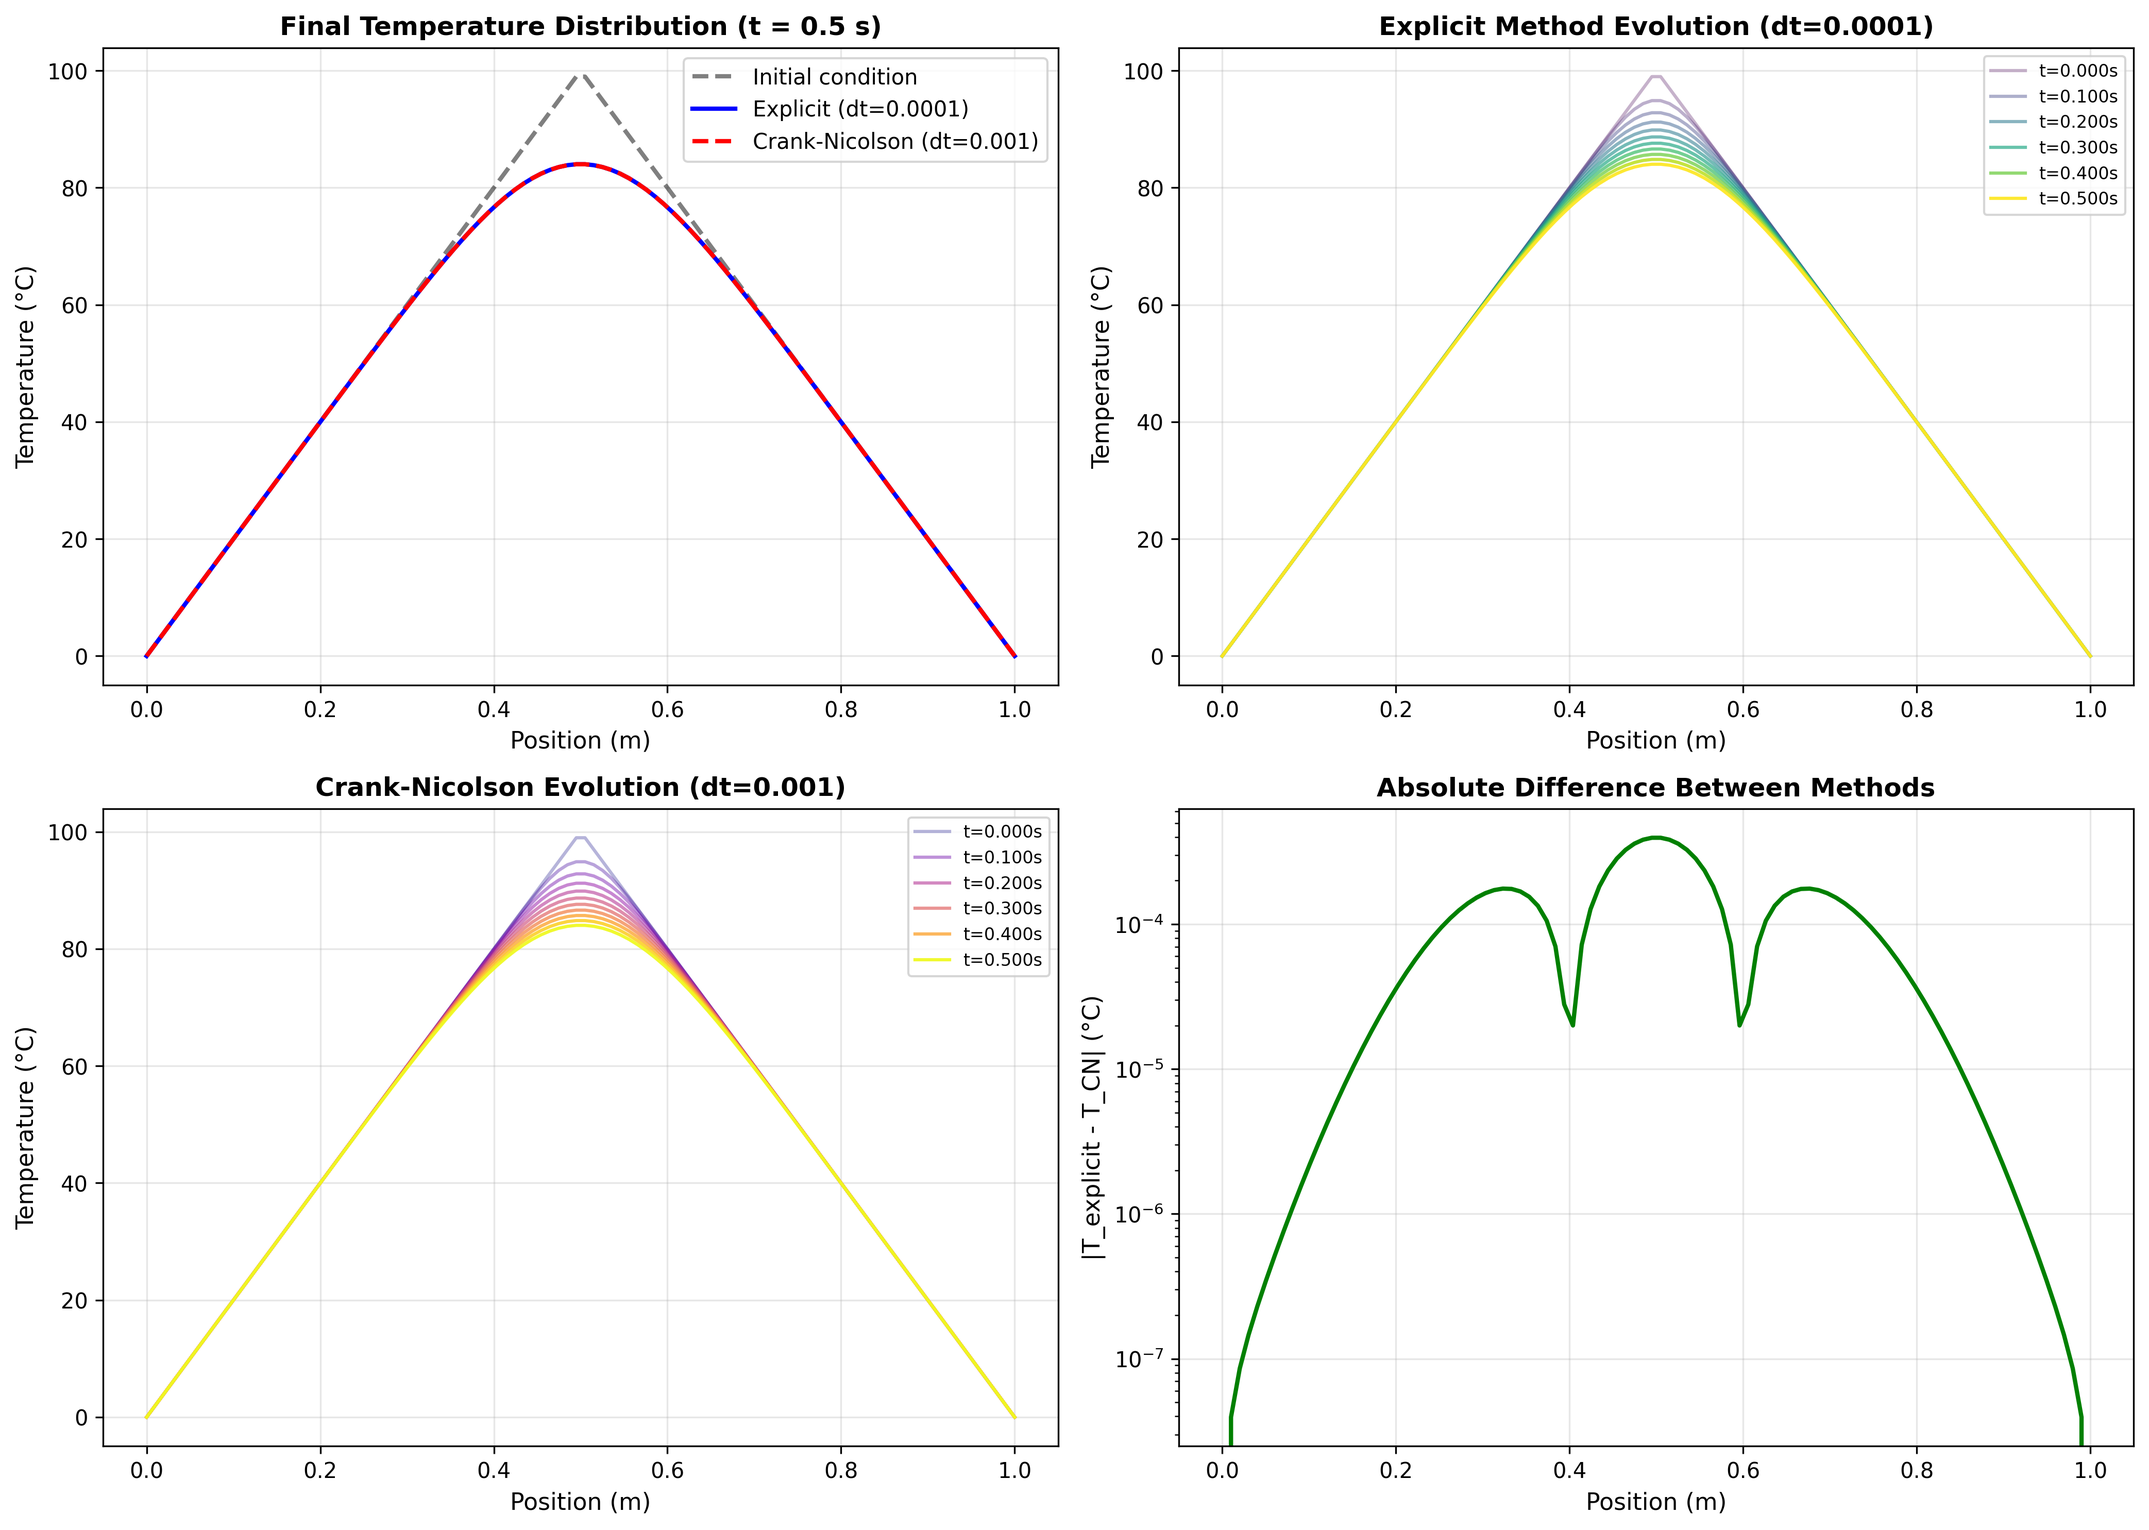
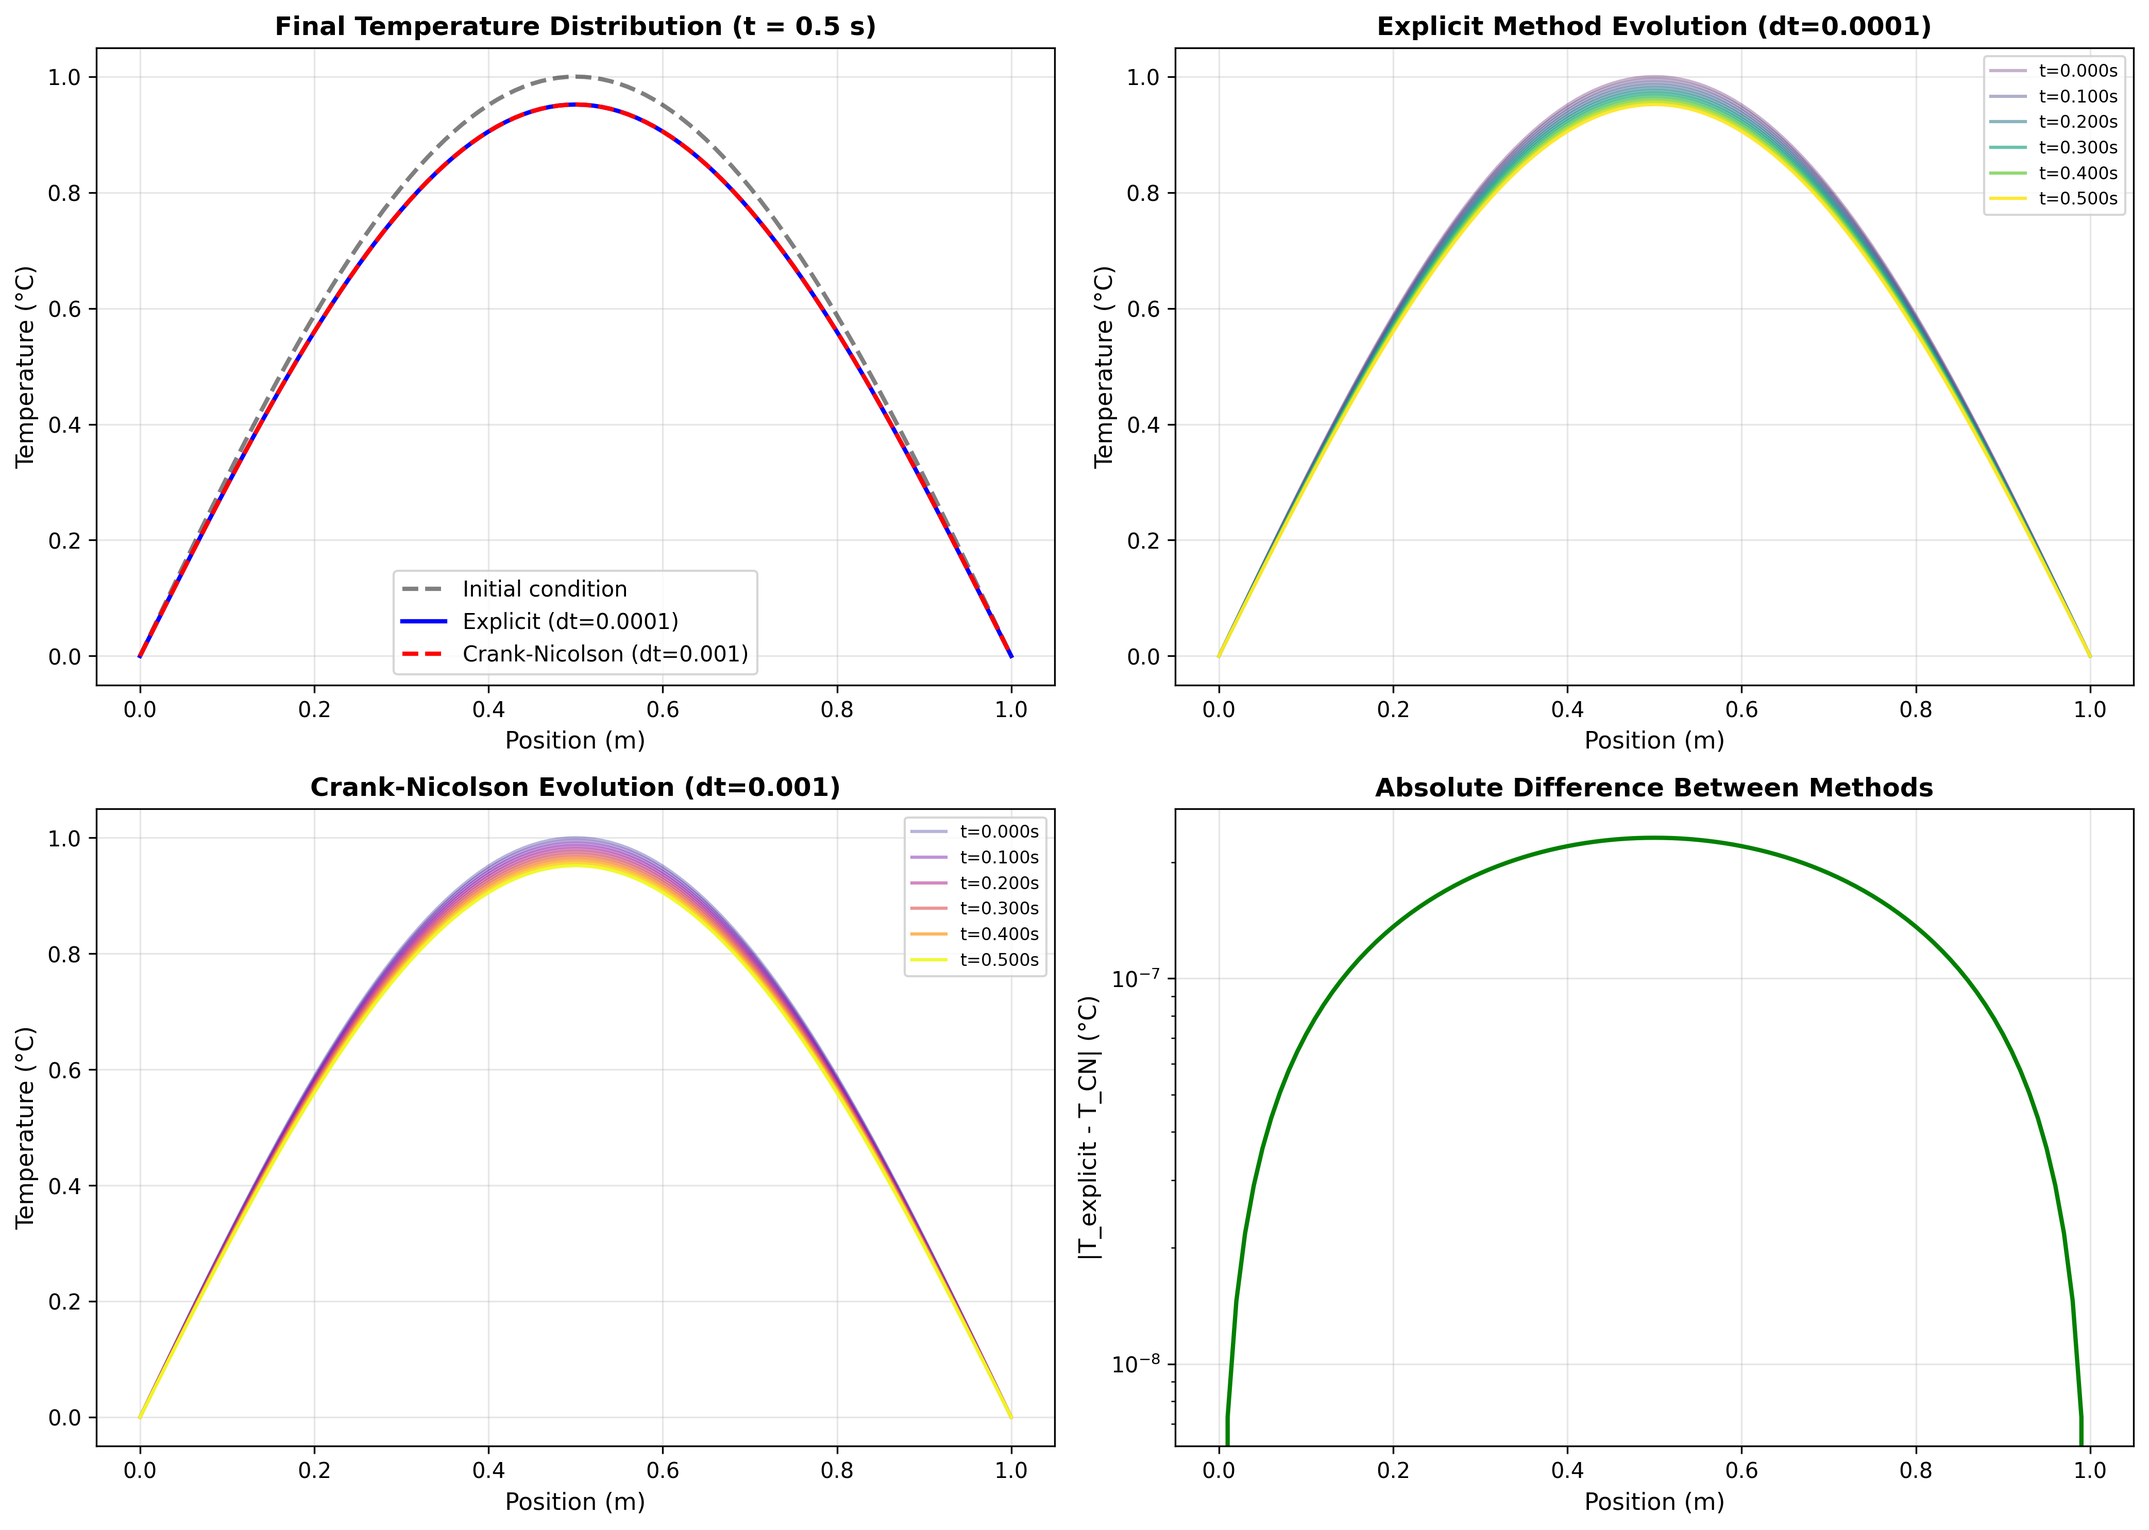
refactored initial condition to use f(x) and user-defined n

diff --git a/heat_equation_both_methods.py b/heat_equation_both_methods.py
@@ -3,7 +3,7 @@ import matplotlib.pyplot as plt
 from scipy.sparse import diags
 from scipy.sparse.linalg import spsolve
 
-def solve_heat_equation_explicit(L, T_initial, alpha, dx, dt, t_final, BC_type='dirichlet', BC_values=(0, 0)):
+def solve_heat_equation_explicit(L, f, n, alpha, dt, t_final, BC_type='dirichlet', BC_values=(0, 0)):
     """
     Solve 1D heat equation using explicit (forward Euler) finite difference method.
     
@@ -11,12 +11,12 @@ def solve_heat_equation_explicit(L, T_initial, alpha, dx, dt, t_final, BC_type='
     -----------
     L : float
         Length of the bar
-    T_initial : array
-        Initial temperature distribution
+    f : callable
+        Initial condition u(x,0) = f(x)
+    n : int
+        Number of spatial intervals (n+1 total points)
     alpha : float
         Thermal diffusivity
-    dx : float
-        Spatial step size
     dt : float
         Time step size
     t_final : float
@@ -37,56 +37,58 @@ def solve_heat_equation_explicit(L, T_initial, alpha, dx, dt, t_final, BC_type='
     T_snapshots : list
         Temperature distributions at saved times
     """
-    nx = len(T_initial)
-    x = np.linspace(0, L, nx)
-    
+    n = int(n)
+    dx = L / n
+    x = np.linspace(0, L, n + 1)
+    T_initial = f(x)
+
     # Stability parameter
     r = alpha * dt / dx**2
     print(f"Explicit method - Stability parameter r = {r:.4f}")
     if r > 0.5:
         print("WARNING: Explicit method is unstable! Need r <= 0.5")
-    
+
     T = T_initial.copy()
     t = 0
-    
+
     # Store snapshots
     times = [0]
     T_snapshots = [T.copy()]
-    snapshot_interval = t_final / 10  # Save 10 snapshots
+    snapshot_interval = t_final / 10
     next_snapshot = snapshot_interval
-    
+
     # Time stepping
     n_steps = int(t_final / dt)
     for step in range(n_steps):
         T_new = T.copy()
-        
+
         # Update interior points
-        for i in range(1, nx-1):
+        for i in range(1, len(x) - 1):
             T_new[i] = T[i] + r * (T[i+1] - 2*T[i] + T[i-1])
-        
+
         # Apply boundary conditions
         if BC_type == 'dirichlet':
             T_new[0] = BC_values[0]
             T_new[-1] = BC_values[1]
-        
+
         T = T_new
         t += dt
-        
+
         # Save snapshots
         if t >= next_snapshot:
             times.append(t)
             T_snapshots.append(T.copy())
             next_snapshot += snapshot_interval
-    
+
     # Make sure we have the final state
     if times[-1] < t_final:
         times.append(t)
         T_snapshots.append(T.copy())
-    
+
     return x, T, times, T_snapshots
 
 
-def solve_heat_equation_crank_nicolson(L, T_initial, alpha, dx, dt, t_final, BC_type='dirichlet', BC_values=(0, 0)):
+def solve_heat_equation_crank_nicolson(L, f, n, alpha, dt, t_final, BC_type='dirichlet', BC_values=(0, 0)):
     """
     Solve 1D heat equation using Crank-Nicolson (implicit) finite difference method.
     
@@ -96,115 +98,99 @@ def solve_heat_equation_crank_nicolson(L, T_initial, alpha, dx, dt, t_final, BC_
     
     Returns: Same as explicit method
     """
-    nx = len(T_initial)
-    x = np.linspace(0, L, nx)
-    
-    # Stability parameter (for Crank-Nicolson, any r is stable!)
+    n = int(n)
+    dx = L / n
+    x = np.linspace(0, L, n + 1)
+    T_initial = f(x)
+
     r = alpha * dt / dx**2
     print(f"Crank-Nicolson method - Stability parameter r = {r:.4f}")
     print("(Crank-Nicolson is unconditionally stable)")
-    
+
     T = T_initial.copy()
     t = 0
-    
+
     # Store snapshots
     times = [0]
     T_snapshots = [T.copy()]
     snapshot_interval = t_final / 10
     next_snapshot = snapshot_interval
-    
+
     # Build the tridiagonal matrices for Crank-Nicolson
     # The scheme is: (I - r/2 * A) * T^(n+1) = (I + r/2 * A) * T^n
-    # where A is the discrete Laplacian operator
-    
-    # For interior points only (we'll handle boundaries separately)
-    n_interior = nx - 2
-    
-    # Tridiagonal matrix for left side: (I - r/2 * A)
+    n_interior = n - 1
+
+    # Left side matrix: (I - r/2 * A)
     main_diag_L = np.ones(n_interior) * (1 + r)
     off_diag_L = np.ones(n_interior - 1) * (-r/2)
     A_left = diags([off_diag_L, main_diag_L, off_diag_L], [-1, 0, 1], format='csr')
-    
-    # Tridiagonal matrix for right side: (I + r/2 * A)
+
+    # Right side matrix: (I + r/2 * A)
     main_diag_R = np.ones(n_interior) * (1 - r)
     off_diag_R = np.ones(n_interior - 1) * (r/2)
     A_right = diags([off_diag_R, main_diag_R, off_diag_R], [-1, 0, 1], format='csr')
-    
+
     # Time stepping
     n_steps = int(t_final / dt)
     for step in range(n_steps):
-        # Right hand side (known values at time n)
         rhs = A_right @ T[1:-1]
-        
-        # Add boundary condition contributions
+
         if BC_type == 'dirichlet':
-            rhs[0] += (r/2) * BC_values[0]  # Left boundary
-            rhs[-1] += (r/2) * BC_values[1]  # Right boundary
-        
-        # Solve the linear system
+            rhs[0] += (r/2) * BC_values[0]
+            rhs[-1] += (r/2) * BC_values[1]
+
         T_interior = spsolve(A_left, rhs)
-        
-        # Update temperature
+
         T[1:-1] = T_interior
         T[0] = BC_values[0]
         T[-1] = BC_values[1]
-        
+
         t += dt
-        
-        # Save snapshots
+
         if t >= next_snapshot:
             times.append(t)
             T_snapshots.append(T.copy())
             next_snapshot += snapshot_interval
-    
-    # Make sure we have the final state
+
     if times[-1] < t_final:
         times.append(t)
         T_snapshots.append(T.copy())
-    
+
     return x, T, times, T_snapshots
 
 
-def create_hat_function(x, L, T_max=100):
-    """Create a hat (triangle) function initial condition."""
-    T = np.zeros_like(x)
-    for i in range(len(x)):
-        if x[i] <= L/2:
-            T[i] = T_max * (2 * x[i] / L)
-        else:
-            T[i] = T_max * (2 - 2 * x[i] / L)
-    return T
-
-
-# Set up the problem
+# =============================================================================
+# User inputs
+# =============================================================================
 L = 1.0          # Length of bar (m)
 alpha = 0.01     # Thermal diffusivity (m^2/s)
-nx = 100         # Number of spatial points
-dx = L / (nx - 1)
+n = 100          # Number of spatial intervals (n+1 points)
+f = lambda x: np.sin(np.pi * x)   # Initial condition f(x)
 t_final = 0.5    # Final time (s)
 
-# Create initial condition
-x = np.linspace(0, L, nx)
-T_initial = create_hat_function(x, L, T_max=100)
-
+# =============================================================================
 # Solve using both methods
+# =============================================================================
 print("="*60)
 print("EXPLICIT METHOD")
 print("="*60)
-dt_explicit = 0.0001  # Small time step for stability
+dt_explicit = 0.0001
 x_exp, T_exp, times_exp, snapshots_exp = solve_heat_equation_explicit(
-    L, T_initial, alpha, dx, dt_explicit, t_final
-)
+    L, f, n, alpha, dt_explicit, t_final)
 
 print("\n" + "="*60)
 print("CRANK-NICOLSON METHOD")
 print("="*60)
-dt_cn = 0.001  # Can use larger time step!
+dt_cn = 0.001
 x_cn, T_cn, times_cn, snapshots_cn = solve_heat_equation_crank_nicolson(
-    L, T_initial, alpha, dx, dt_cn, t_final
-)
+    L, f, n, alpha, dt_cn, t_final)
 
-# Compare the two methods
+# =============================================================================
+# Comparison
+# =============================================================================
+x = x_exp  # Both grids are identical
+T_initial = f(x)
+
 print("\n" + "="*60)
 print("COMPARISON")
 print("="*60)
@@ -212,10 +198,11 @@ print(f"Explicit method used dt = {dt_explicit} ({int(t_final/dt_explicit)} step
 print(f"Crank-Nicolson used dt = {dt_cn} ({int(t_final/dt_cn)} steps)")
 print(f"Maximum difference at t={t_final}: {np.max(np.abs(T_exp - T_cn)):.6e} °C")
 
-# Visualize comparison
+# =============================================================================
+# Plots
+# =============================================================================
 fig, axes = plt.subplots(2, 2, figsize=(14, 10))
 
-# Plot 1: Final temperature distributions
 ax = axes[0, 0]
 ax.plot(x, T_initial, 'k--', linewidth=2, label='Initial condition', alpha=0.5)
 ax.plot(x_exp, T_exp, 'b-', linewidth=2, label=f'Explicit (dt={dt_explicit})')
@@ -226,12 +213,11 @@ ax.set_title(f'Final Temperature Distribution (t = {t_final} s)', fontsize=12, f
 ax.legend()
 ax.grid(True, alpha=0.3)
 
-# Plot 2: Temperature evolution - Explicit
 ax = axes[0, 1]
 colors_exp = plt.cm.viridis(np.linspace(0, 1, len(snapshots_exp)))
 for i, (T_snap, t) in enumerate(zip(snapshots_exp, times_exp)):
     alpha_val = 0.3 + 0.7 * (i / len(snapshots_exp))
-    ax.plot(x, T_snap, color=colors_exp[i], linewidth=1.5, 
+    ax.plot(x, T_snap, color=colors_exp[i], linewidth=1.5,
             alpha=alpha_val, label=f't={t:.3f}s' if i % 2 == 0 else '')
 ax.set_xlabel('Position (m)', fontsize=11)
 ax.set_ylabel('Temperature (°C)', fontsize=11)
@@ -239,12 +225,11 @@ ax.set_title(f'Explicit Method Evolution (dt={dt_explicit})', fontsize=12, fontw
 ax.legend(fontsize=8)
 ax.grid(True, alpha=0.3)
 
-# Plot 3: Temperature evolution - Crank-Nicolson
 ax = axes[1, 0]
 colors_cn = plt.cm.plasma(np.linspace(0, 1, len(snapshots_cn)))
 for i, (T_snap, t) in enumerate(zip(snapshots_cn, times_cn)):
     alpha_val = 0.3 + 0.7 * (i / len(snapshots_cn))
-    ax.plot(x, T_snap, color=colors_cn[i], linewidth=1.5, 
+    ax.plot(x, T_snap, color=colors_cn[i], linewidth=1.5,
             alpha=alpha_val, label=f't={t:.3f}s' if i % 2 == 0 else '')
 ax.set_xlabel('Position (m)', fontsize=11)
 ax.set_ylabel('Temperature (°C)', fontsize=11)
@@ -252,7 +237,6 @@ ax.set_title(f'Crank-Nicolson Evolution (dt={dt_cn})', fontsize=12, fontweight='
 ax.legend(fontsize=8)
 ax.grid(True, alpha=0.3)
 
-# Plot 4: Difference between methods
 ax = axes[1, 1]
 difference = np.abs(T_exp - T_cn)
 ax.plot(x, difference, 'g-', linewidth=2)
@@ -266,49 +250,43 @@ plt.tight_layout()
 plt.savefig('heat_equation_comparison.png', dpi=300, bbox_inches='tight')
 print("\nComparison plot saved as 'heat_equation_comparison.png'")
 
-# Also create a detailed diagram showing the numerical schemes
+# Scheme diagrams
 fig2, axes2 = plt.subplots(1, 2, figsize=(14, 6))
 
-# Explicit scheme diagram
 ax = axes2[0]
-ax.text(0.5, 0.95, 'Explicit (Forward Euler) Scheme', 
+ax.text(0.5, 0.95, 'Explicit (Forward Euler) Scheme',
         ha='center', va='top', fontsize=14, fontweight='bold', transform=ax.transAxes)
-ax.text(0.5, 0.85, r'$T_i^{n+1} = T_i^n + r(T_{i+1}^n - 2T_i^n + T_{i-1}^n)$', 
-        ha='center', va='top', fontsize=12, transform=ax.transAxes, family='monospace',
+ax.text(0.5, 0.85, r'$T_i^{n+1} = T_i^n + r(T_{i+1}^n - 2T_i^n + T_{i-1}^n)$',
+        ha='center', va='top', fontsize=12, transform=ax.transAxes,
         bbox=dict(boxstyle='round', facecolor='wheat', alpha=0.5))
-ax.text(0.5, 0.70, r'where $r = \alpha \frac{\Delta t}{\Delta x^2}$', 
+ax.text(0.5, 0.70, r'where $r = \alpha \frac{\Delta t}{\Delta x^2}$',
         ha='center', va='top', fontsize=11, transform=ax.transAxes)
-ax.text(0.1, 0.55, 'Advantages:', ha='left', va='top', fontsize=11, 
-        fontweight='bold', transform=ax.transAxes)
+ax.text(0.1, 0.55, 'Advantages:', ha='left', va='top', fontsize=11, fontweight='bold', transform=ax.transAxes)
 ax.text(0.15, 0.48, '• Simple to implement', ha='left', va='top', fontsize=10, transform=ax.transAxes)
 ax.text(0.15, 0.42, '• Computationally cheap per step', ha='left', va='top', fontsize=10, transform=ax.transAxes)
 ax.text(0.15, 0.36, '• Explicit update (no linear solve)', ha='left', va='top', fontsize=10, transform=ax.transAxes)
-ax.text(0.1, 0.28, 'Disadvantages:', ha='left', va='top', fontsize=11, 
-        fontweight='bold', transform=ax.transAxes)
+ax.text(0.1, 0.28, 'Disadvantages:', ha='left', va='top', fontsize=11, fontweight='bold', transform=ax.transAxes)
 ax.text(0.15, 0.21, '• Conditionally stable (r ≤ 0.5)', ha='left', va='top', fontsize=10, transform=ax.transAxes)
 ax.text(0.15, 0.15, '• Requires small time steps', ha='left', va='top', fontsize=10, transform=ax.transAxes)
 ax.text(0.15, 0.09, '• First-order accurate in time', ha='left', va='top', fontsize=10, transform=ax.transAxes)
 ax.axis('off')
 
-# Crank-Nicolson scheme diagram
 ax = axes2[1]
-ax.text(0.5, 0.95, 'Crank-Nicolson (Implicit) Scheme', 
+ax.text(0.5, 0.95, 'Crank-Nicolson (Implicit) Scheme',
         ha='center', va='top', fontsize=14, fontweight='bold', transform=ax.transAxes)
-ax.text(0.5, 0.85, r'$T_i^{n+1} - \frac{r}{2}(T_{i+1}^{n+1} - 2T_i^{n+1} + T_{i-1}^{n+1})$', 
-        ha='center', va='top', fontsize=11, transform=ax.transAxes, family='monospace',
+ax.text(0.5, 0.85, r'$T_i^{n+1} - \frac{r}{2}(T_{i+1}^{n+1} - 2T_i^{n+1} + T_{i-1}^{n+1})$',
+        ha='center', va='top', fontsize=11, transform=ax.transAxes,
         bbox=dict(boxstyle='round', facecolor='lightblue', alpha=0.5))
-ax.text(0.5, 0.75, r'$= T_i^n + \frac{r}{2}(T_{i+1}^n - 2T_i^n + T_{i-1}^n)$', 
-        ha='center', va='top', fontsize=11, transform=ax.transAxes, family='monospace',
+ax.text(0.5, 0.75, r'$= T_i^n + \frac{r}{2}(T_{i+1}^n - 2T_i^n + T_{i-1}^n)$',
+        ha='center', va='top', fontsize=11, transform=ax.transAxes,
         bbox=dict(boxstyle='round', facecolor='lightblue', alpha=0.5))
-ax.text(0.5, 0.62, '(Requires solving a tridiagonal linear system)', 
+ax.text(0.5, 0.62, '(Requires solving a tridiagonal linear system)',
         ha='center', va='top', fontsize=10, transform=ax.transAxes, style='italic')
-ax.text(0.1, 0.52, 'Advantages:', ha='left', va='top', fontsize=11, 
-        fontweight='bold', transform=ax.transAxes)
+ax.text(0.1, 0.52, 'Advantages:', ha='left', va='top', fontsize=11, fontweight='bold', transform=ax.transAxes)
 ax.text(0.15, 0.45, '• Unconditionally stable (any dt)', ha='left', va='top', fontsize=10, transform=ax.transAxes)
 ax.text(0.15, 0.39, '• Second-order accurate in time', ha='left', va='top', fontsize=10, transform=ax.transAxes)
 ax.text(0.15, 0.33, '• Can use larger time steps', ha='left', va='top', fontsize=10, transform=ax.transAxes)
-ax.text(0.1, 0.25, 'Disadvantages:', ha='left', va='top', fontsize=11, 
-        fontweight='bold', transform=ax.transAxes)
+ax.text(0.1, 0.25, 'Disadvantages:', ha='left', va='top', fontsize=11, fontweight='bold', transform=ax.transAxes)
 ax.text(0.15, 0.18, '• More complex to implement', ha='left', va='top', fontsize=10, transform=ax.transAxes)
 ax.text(0.15, 0.12, '• Requires linear system solve', ha='left', va='top', fontsize=10, transform=ax.transAxes)
 ax.text(0.15, 0.06, '• More expensive per time step', ha='left', va='top', fontsize=10, transform=ax.transAxes)
